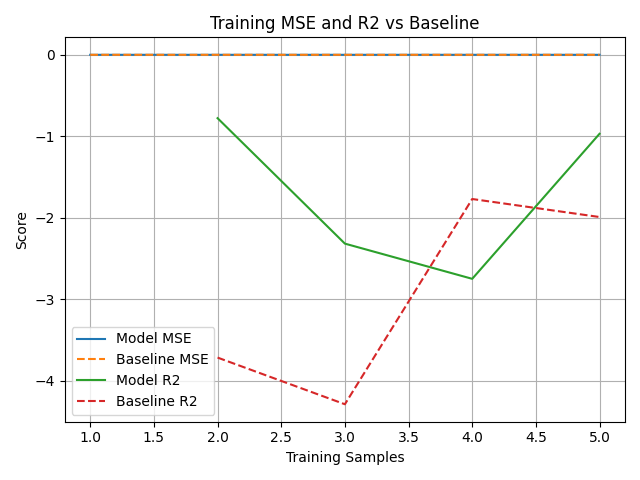
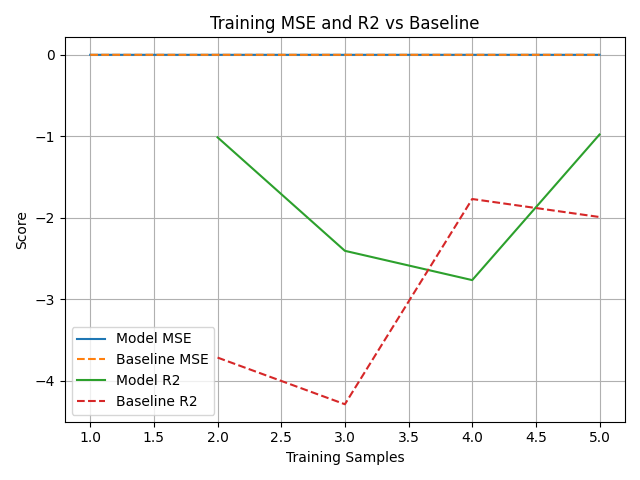
去除部分共線性指標(ma10),(aggregated_signal_score)

diff --git a/daily_tech_factor.py b/daily_tech_factor.py
@@ -19,13 +19,12 @@ def compute_technical_factors(ticker):
     df["momentum_1d"] = df["Close"].pct_change()
     df["volatility_5d"] = df["Close"].rolling(5).std()
     df["ma_5"] = df["Close"].rolling(5).mean()
-    df["ma_10"] = df["Close"].rolling(10).mean()
     df["bias_5"] = (df["Close"] - df["ma_5"]) / df["ma_5"]
     df["rsi_5"] = calc_rsi(df["Close"], 5)
     # 印出今日收盤價
     print("今日日期：", df.index[-1], "收盤價：", df["Close"].iloc[-1])
 
-    return df[["momentum_1d", "volatility_5d", "ma_5", "ma_10", "bias_5", "rsi_5"]].dropna().tail(1)
+    return df[["momentum_1d", "volatility_5d", "ma_5", "bias_5", "rsi_5"]].dropna().tail(1)
 
 if __name__ == "__main__":
     print(compute_technical_factors("^TWII"))

diff --git a/news_to_index.py b/news_to_index.py
@@ -7,7 +7,6 @@ import json
 import config
 from datetime import datetime, timedelta
 import os
-import requests
 import yfinance as yf
 
 
@@ -73,7 +72,7 @@ if __name__ == '__main__':
     df_news_factor = pd.DataFrame(rows)
     print(df_news_factor.head())
 
-    numeric_features = ['sentiment_score', 'volatility_hint', 'confidence_level', 'aggregated_signal_score', 'positive_neutral_negative']
+    numeric_features = ['sentiment_score', 'volatility_hint', 'confidence_level', 'positive_neutral_negative']
     weights = df_news_factor['confidence_level']
     weighted_avg = (df_news_factor[numeric_features].T * weights).T.sum() / weights.sum()
     daily_news_feature = weighted_avg.to_frame().T

diff --git a/analyzer.py b/analyzer.py
@@ -23,7 +23,6 @@ def analyze_with_groq( new : dict[str, str] ,ticker)-> str:
   "sentiment_score": 0~100,
   "volatility_hint": 0~100,
   "confidence_level": 0~100,
-  "aggregated_signal_score": 0~100,
   "positive_neutral_negative": "positive" 或 "neutral" 或 "negative"
 }}
 新聞:{new['content']}
